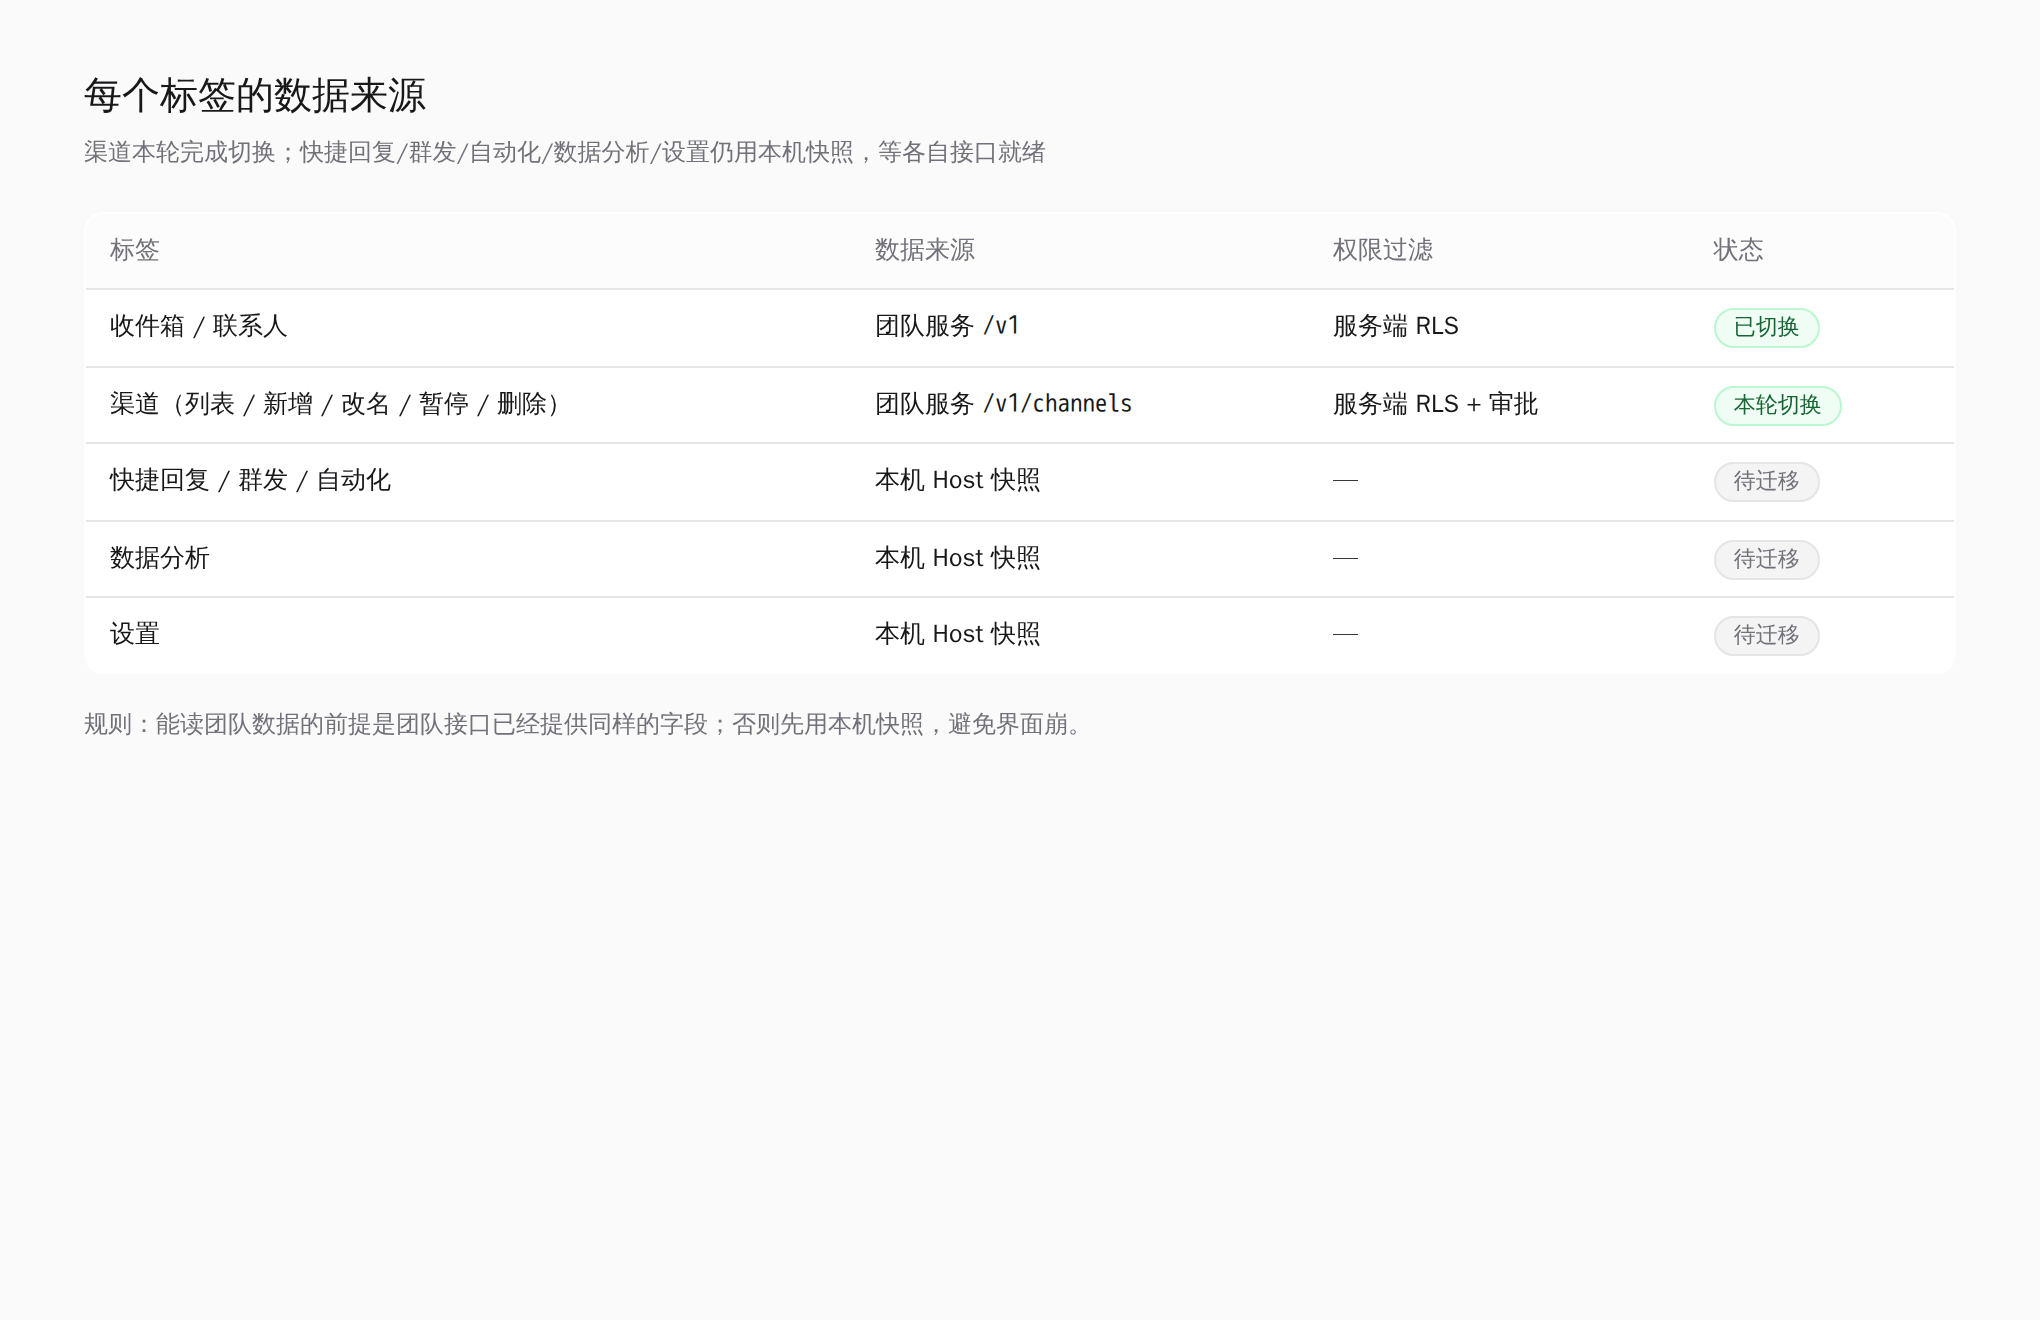
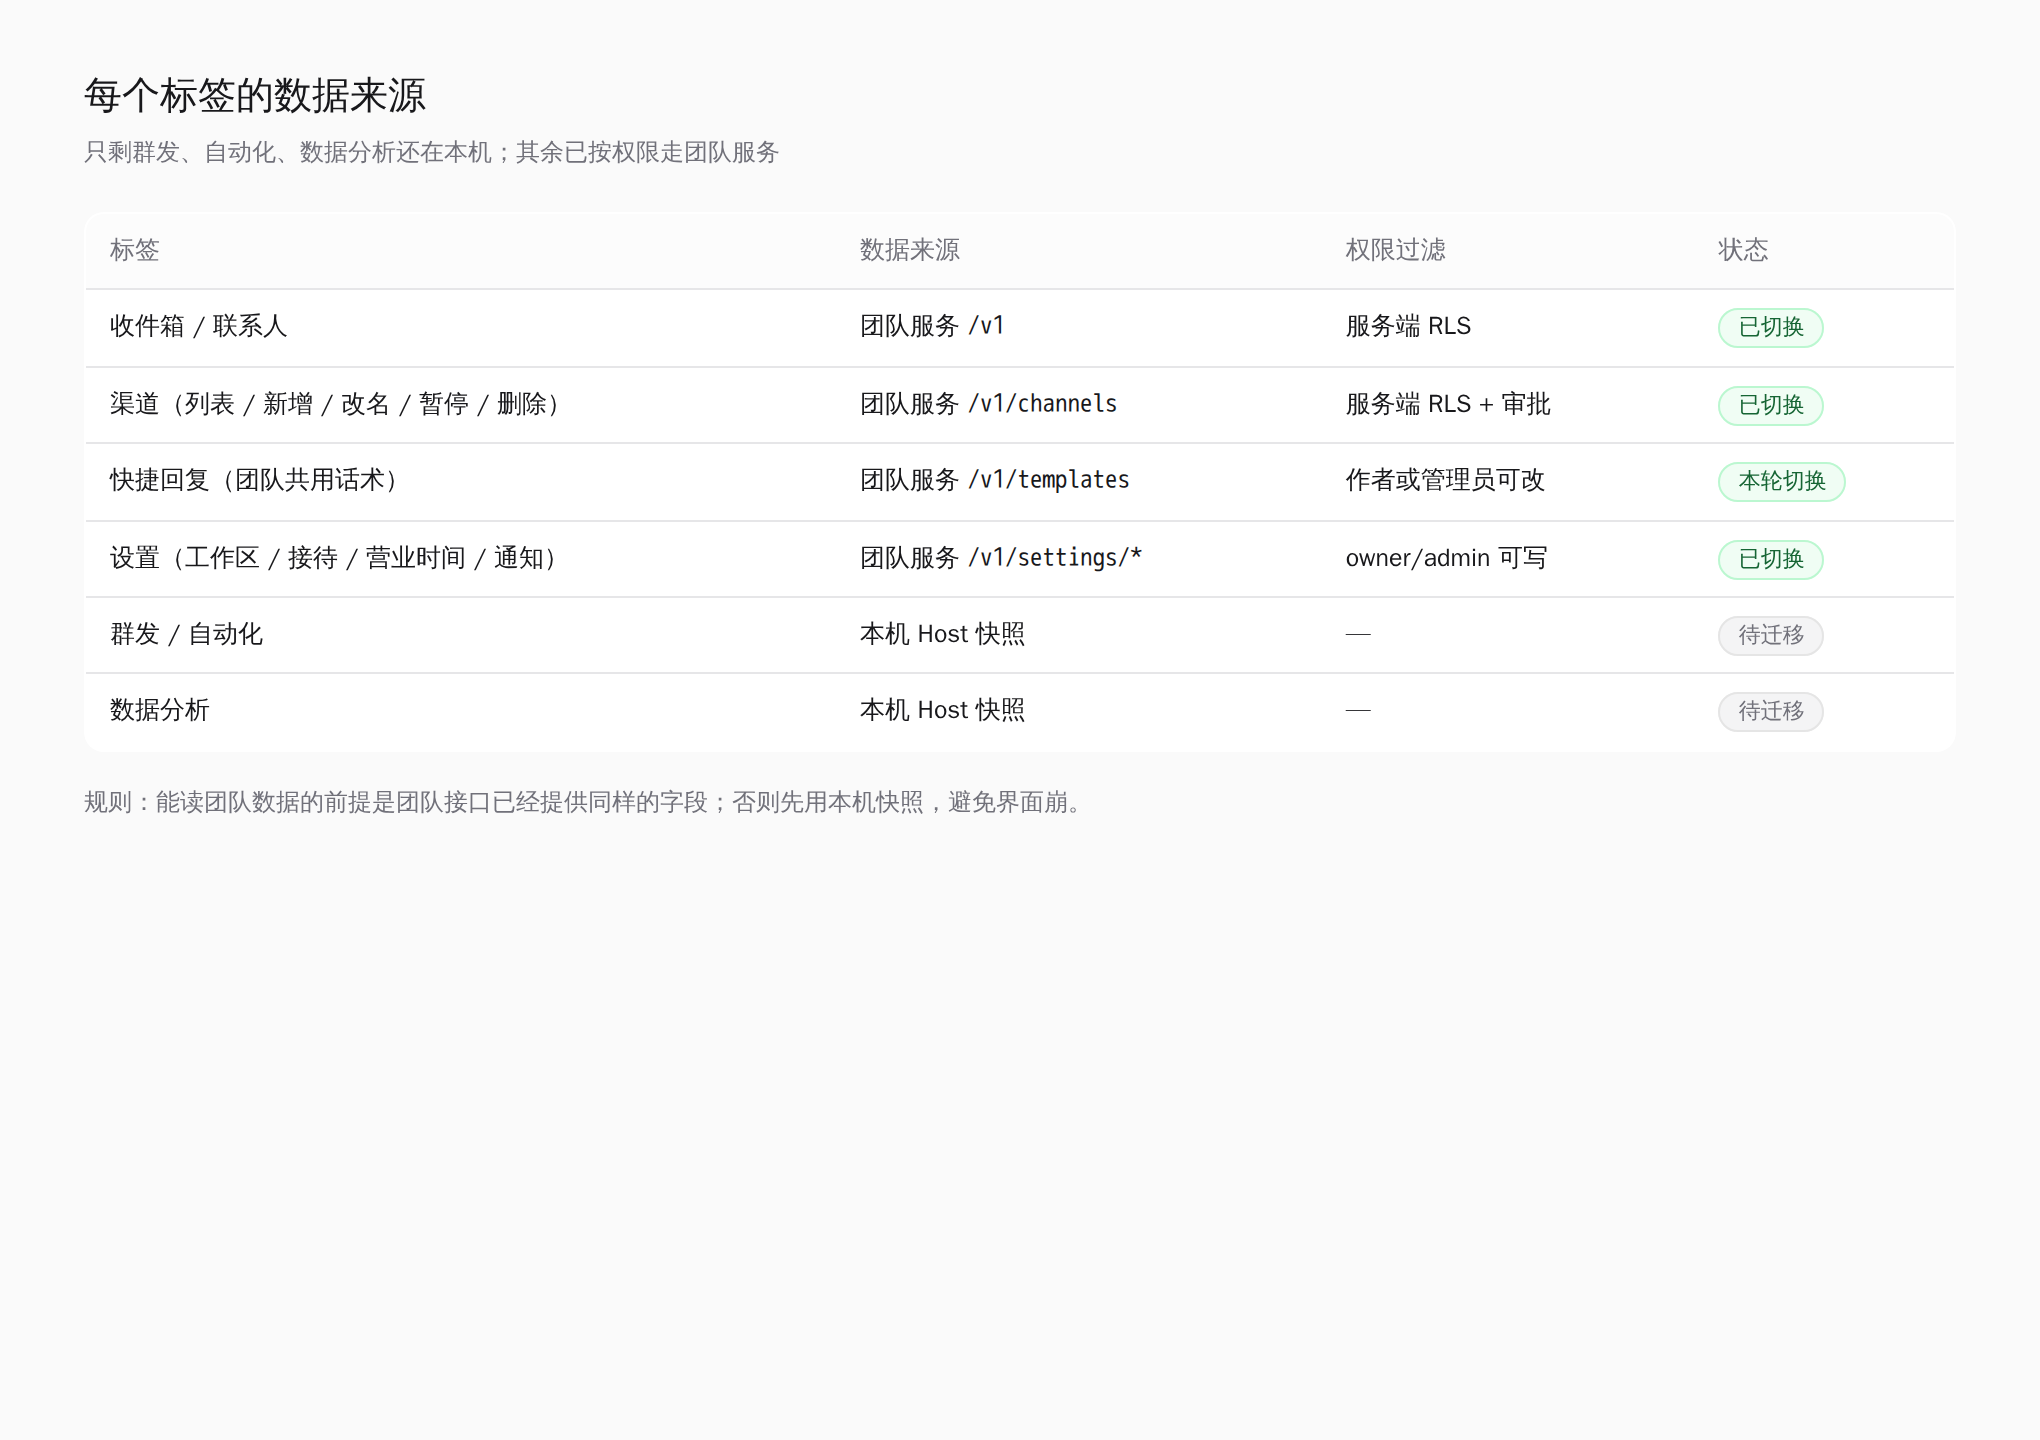
feat: shared reply templates on the team service
- migration 020 templates table (tenant RLS); GET/POST/PATCH/DELETE /v1/templates
  with author-or-admin write rules, 422 on empty name/body, and same-transaction
  audit (template.create/update/delete)
- client: templates tab reads the team list; template.create/update/delete map onto
  the API; adapters (lib + inline) gained the three methods with tests
- tests: create/edit/delete matrix incl. another member's 403 and the owner's
  override (89 server), adapter mapping (80 plugin)
- docs §17 + refreshed data-source matrix

diff --git a/client.js b/client.js
@@ -5553,18 +5553,23 @@ window.__ModuleLoader__.load({
       return {
         async load(limits = {}) {
           const limit = Number(limits.limit ?? 30)
-          const [conversations, contacts, channels, settings, notify] = await Promise.all([
+          const [conversations, contacts, channels, settings, notify, templates] = await Promise.all([
             call(`/v1/conversations?limit=${limit}`),
             call('/v1/contacts'),
             call('/v1/channels'),
             call('/v1/settings/workspace'),
             call('/v1/settings/notify').catch(() => ({ notify: {} })),
+            call('/v1/templates').catch(() => ({ items: [] })),
           ])
           const snapshot = {
             conversations: (conversations.items ?? []).map(toConversation),
             contacts: (contacts.items ?? []).map((row) => ({
               id: row.id, name: row.name ?? '', handle: row.handle ?? '', phone: row.phone ?? '',
               tags: Array.isArray(row.tags) ? row.tags : [], channelId: row.channel_id ?? null,
+            })),
+            templates: (templates.items ?? []).map((row) => ({
+              id: row.id, name: row.name ?? '', shortcut: row.shortcut ?? '', body: row.body ?? '',
+              ownerId: row.owner_user_id ?? null, updatedAt: row.updated_at ?? null,
             })),
             workspace: {
               name: settings.settings?.name ?? '',
@@ -5616,6 +5621,17 @@ window.__ModuleLoader__.load({
         async send(conversationId, body) {
           const result = await call('/v1/messages', { method: 'POST', body: { conversationId, body } })
           return result.message ?? null
+        },
+        async createTemplate(input) {
+          return call('/v1/templates', { method: 'POST', body: { name: input.name, shortcut: input.shortcut ?? '', body: input.body } })
+        },
+        async updateTemplate(templateId, fields) {
+          const body = {}
+          for (const key of ['name', 'shortcut', 'body']) if (fields[key] !== undefined) body[key] = fields[key]
+          return call(`/v1/templates/${templateId}`, { method: 'PATCH', body })
+        },
+        async deleteTemplate(templateId) {
+          return call(`/v1/templates/${templateId}`, { method: 'DELETE' })
         },
         async updateWorkspace(fields) {
           const body = {}
@@ -5672,6 +5688,10 @@ window.__ModuleLoader__.load({
             automations: [],
             broadcasts: [],
             events: [],
+            templates: (templates.items ?? []).map((row) => ({
+              id: row.id, name: row.name ?? '', shortcut: row.shortcut ?? '', body: row.body ?? '',
+              ownerId: row.owner_user_id ?? null, updatedAt: row.updated_at ?? null,
+            })),
             workspace: { name: '', ownerId: null, bot: {}, notify: {} },
             meta: { revision: Date.now(), updatedAt: new Date().toISOString() },
           })
@@ -5707,6 +5727,9 @@ window.__ModuleLoader__.load({
           await inbox.updateWorkspace(rest)
           return { ok: true }
         }
+        if (name === 'template.create') return inbox.createTemplate(payload)
+        if (name === 'template.update') return inbox.updateTemplate(payload.templateId, payload)
+        if (name === 'template.delete') return inbox.deleteTemplate(payload.templateId)
         if (name === 'channel.create') return inbox.createChannel({ name: payload.name, type: payload.type })
         if (name === 'channel.update') return inbox.updateChannel(payload.channelId, { name: payload.name, status: payload.status })
         if (name === 'channel.delete') return inbox.deleteChannel(payload.channelId)
@@ -5940,7 +5963,7 @@ window.__ModuleLoader__.load({
 
       // Inbox and contacts read the team service (already permission-filtered);
       // the other tabs still read the local Host workspace until they migrate.
-      const active = ['inbox', 'contacts', 'channels', 'settings'].includes(tab) ? teamWorkspace : hostWorkspace
+      const active = ['inbox', 'contacts', 'channels', 'templates', 'settings'].includes(tab) ? teamWorkspace : hostWorkspace
 
       if (active.loading) {
         return h('div', { className: 'imoRoot' },

diff --git a/test/team-inbox.test.js b/test/team-inbox.test.js
@@ -118,3 +118,19 @@ test('workspace and notify writes map onto the settings endpoints', async () => 
   assert.equal(calls[1].init.method, 'PUT')
   assert.equal(calls[1].init.body.enabled, true)
 })
+
+test('template writes go to the team template endpoints', async () => {
+  const { call, calls } = transport({
+    'POST /v1/templates': { status: 201, body: { template: { id: 'tpl1' } } },
+    'PATCH /v1/templates/tpl1': { status: 200, body: { template: { id: 'tpl1' } } },
+    'DELETE /v1/templates/tpl1': { status: 200, body: { deleted: 'tpl1' } },
+  })
+  const inbox = createTeamInbox({ call, token: 't' })
+  await inbox.createTemplate({ name: '退款进度', body: '我们会在 24 小时内处理', shortcut: '/refund' })
+  await inbox.updateTemplate('tpl1', { name: '退款进度（新）', ignored: 1 })
+  await inbox.deleteTemplate('tpl1')
+  assert.equal(calls[0].init.body.name, '退款进度')
+  assert.equal(calls[0].init.body.shortcut, '/refund')
+  assert.deepEqual(calls[1].init.body, { name: '退款进度（新）' })
+  assert.equal(calls[2].init.method, 'DELETE')
+})

diff --git a/test/tab-source.test.js b/test/tab-source.test.js
@@ -9,8 +9,8 @@ import { readFile } from 'node:fs/promises'
 
 const source = await readFile(new URL('../client.js', import.meta.url), 'utf8')
 
-test('App picks the team workspace for inbox, contacts, channels and settings', () => {
-  assert.match(source, /const active = \['inbox', 'contacts', 'channels', 'settings'\]\.includes\(tab\) \? teamWorkspace : hostWorkspace/)
+test('App picks the team workspace for inbox, contacts, channels, templates and settings', () => {
+  assert.match(source, /const active = \['inbox', 'contacts', 'channels', 'templates', 'settings'\]\.includes\(tab\) \? teamWorkspace : hostWorkspace/)
 })
 
 test('the login gate is checked before any workspace loading state', () => {

diff --git a/docs/API-v1.md b/docs/API-v1.md
@@ -17,6 +17,7 @@
 | 切换租户 | `POST /v1/auth/switch` | ✅ 已实现 |
 | 我的信息 | `GET /v1/me` | ✅ 已实现 |
 | 管理页 | `GET /admin` | ✅ 已实现（团队权限分配，登录后按员工勾选可见号码） |
+| 快捷回复 | `GET /v1/templates`、`POST /v1/templates`、`PATCH /v1/templates/{id}`、`DELETE /v1/templates/{id}` | ✅ 已实现（团队共用；作者或管理员可改） |
 | 租户 / 成员 | `POST /v1/tenants`、`GET /v1/tenants/{id}/members`、`PATCH /v1/tenants/{id}/members/{userId}`、`DELETE /v1/tenants/{id}/members/{userId}`、`GET /v1/tenants/{id}/audit`、`GET /v1/tenants/{id}/audit.csv`、`GET /v1/tenants/{id}/approvals`、`POST /v1/tenants/{id}/approvals/{approvalId}` | ✅ 已实现（PATCH 分配可见范围/角色并写审计；`dataScope=all` 或改 `role` 必须带 `confirmEmail`；DELETE 移除成员（需 `confirmEmail`）；audit 支持 before 游标） |
 | 邀请 | `POST /v1/tenants/{id}/invites`、`POST /v1/invites/accept` | ✅ 已实现 |
 | 设备 | `POST /v1/devices/{code,link,register}`、`GET /v1/devices`、`DELETE /v1/devices/{id}` | ✅ 已实现 |

diff --git a/docs/ARCHITECTURE.md b/docs/ARCHITECTURE.md
@@ -260,3 +260,16 @@ core 可以原样抽走。
 - 仍未接入：`agent.create/update/delete`（本机团队概念）、`demo.*`（演示数据）。调用时明确报错。
 
 截图：`docs/settings-team.png`。
+
+### 17. 快捷回复迁到团队服务（本轮）
+
+| 能力 | 接口 | 规则 |
+| --- | --- | --- |
+| 列表 | `GET /v1/templates` | 团队共用：所有成员读到同一套话术 |
+| 新增 | `POST /v1/templates` | 任何成员都可以贡献；空标题/空内容 422 |
+| 修改 / 删除 | `PATCH·DELETE /v1/templates/{id}` | **作者本人或 owner/admin**，否则 403 |
+| 审计 | 同事务写 `template.create/update/delete` | |
+
+- 客户端 `template.create/update/delete` 映射到上述接口，`templates` 标签改读团队数据。
+- 快捷回复是"团队资产"而非个人私有：可见性全租户，写入按作者归属校验——这是有意的取舍（客服之间要能复用话术）。
+- 测试：创建/改/删 + 空值 422 + 他人修改 403 + 所有者可改任意 + 删除后列表消失（isolation 24 条）。
